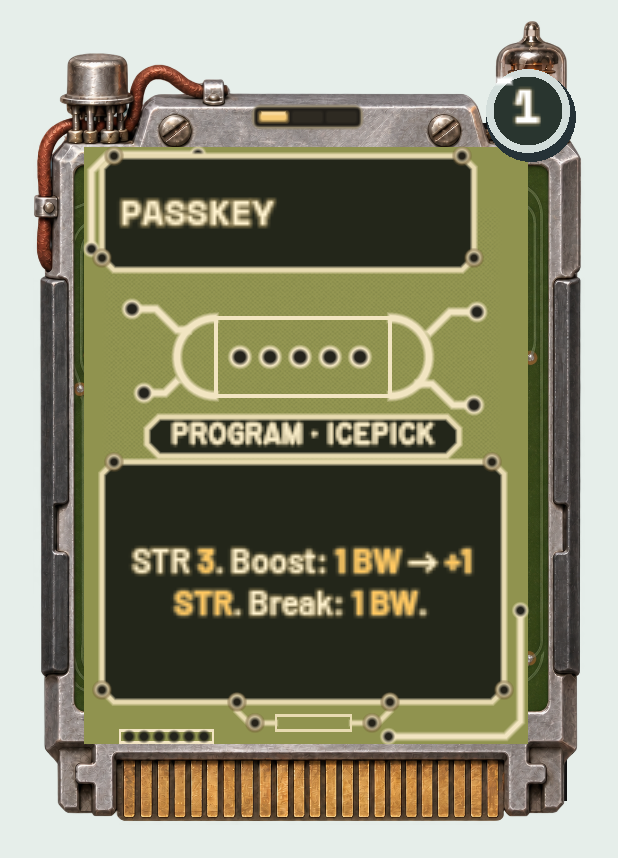
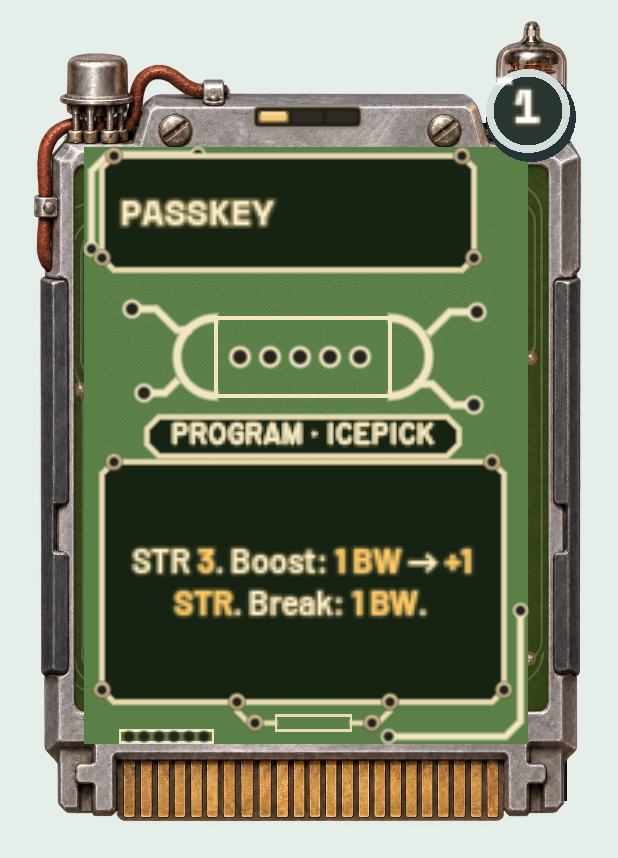
CARDS-002: deeper green PROGRAM; starters and PROTOCOL lamp settled (review branch only)
Designer direction: starters have no rarity; deeper green for PROGRAM;
PROTOCOL lamp on the relay rail works. PROGRAM laminate #5A8048, mask
#172312 (hue 101, 58 from mustard). Preview 0 failures at 3x and 1x;
rules 361/0, ADP 17/0, SIGNAL/CARBON 671/0.

Claude-Session: https://claude.ai/code/session_019hKEHwHgBfGqbFMUM3xZXY

Changed region(s): [[0.123, 0.1515, 0.8608, 0.8788]]

diff --git a/docs/visual/fixtures/cards-002/README.md b/docs/visual/fixtures/cards-002/README.md
@@ -4,7 +4,7 @@
 
 **Status:** Design review, 2026-11-19. PROPOSED except where a line says designer direction.
 
-![All four card types with the glow treatment, plus rarities, the longest rules text and cached cards](iterations/PANOPTICON_PCB_Glow_Four_Types.jpg)
+![All four card types with the glow treatment and the deeper green PROGRAM, plus rarities, the longest rules text and cached cards](iterations/PANOPTICON_PCB_Glow_Four_Types_Deep_Green.jpg)
 
 ## Current review version: four-type glow treatment
 
@@ -13,11 +13,11 @@
 | Type | Board | Dark mask behind text | Example |
 |---|---|---|---|
 | SCRIPT | Mustard `#AE924D` (new) | `#2E2712` | [DEEP PROBE](captures/SCRIPT_DEEP_PROBE.png) |
-| PROGRAM | Olive `#90934F` | `#23261A` | [PASSKEY](captures/PROGRAM_PASSKEY.png) |
+| PROGRAM | Deeper green `#5A8048` (designer direction; replaces olive `#90934F`) | `#172312` | [PASSKEY](captures/PROGRAM_PASSKEY.png) |
 | PROTOCOL | Blue-green `#60938A` | `#14272A` | [TOOLBELT](captures/PROTOCOL_TOOLBELT.png) |
 | BLOATWARE | Corporate oxide-red face and Whirlwind art (unchanged) | `#2A1411` | [TRACER](captures/BLOATWARE_TRACER.png) |
 
-**Open palette question:** olive is 20° of hue from mustard, the closest pair in the set. Next to each other they read as different boards, but a deeper green PROGRAM would separate them more.
+**Deeper green PROGRAM (designer direction, 2026-11-19).** Olive was only 20° of hue from mustard. The deeper green `#5A8048` sits at hue 101°: 58° from mustard and 68° from blue-green. It is also darker than both, so the three Rustler boards differ in brightness as well as hue. Ivory is 14.8:1 on its mask.
 
 **Treatment, every type**
 - **Dark solder-mask panels** sit behind the title, the type plate and the rules. Each mask is a deep tint of its own board colour. No text sits on the bare board.
@@ -25,7 +25,7 @@
 - **Rustler type faces:** Chrome Deco bold for titles, Routed Gothic for the type plate, Barlow SemiBold and Bold for the rules.
 - **BLOATWARE** keeps the HALCYON corporate fonts for its facade. Its footer line ("We just want to stay in touch.") sits in dimmer ivory at the bottom of its rules panel.
 - **Layout:** each panel is placed from the type's own board area. The rules panels are 84 px tall for SCRIPT, 80 for PROGRAM, 79 for PROTOCOL and 84 for BLOATWARE, with an 11 px ceiling and a 9 px floor. All 444 card texts (every card, AMP 0–3) fit their own type's panel.
-- **Rarity:** a recessed lamp in each Rustler shell's top exterior, with 1, 2 or 3 lit cells (amber, green or violet) for Common, Uncommon and Rare. Starter and BLOATWARE cards have no lamp, and no printed rarity remains on any card.
+- **Rarity:** a recessed lamp in each Rustler shell's top exterior, with 1, 2 or 3 lit cells (amber, green or violet) for Common, Uncommon and Rare. On PROTOCOL it sits on the relay's lower rail (designer accepted). Starters have no rarity (designer direction), BLOATWARE has no lamp, and no printed rarity remains on any card.
 - **Cached** (designer direction): never printed on the card. A cached card shows one solid icy-cyan `#7FE3F0` glow just inside its board edge, the same whether it is temporary or held until played. The glow draws beneath the BW cost and every text panel. The hover tooltip reads `CACHED`, or `CACHED (temporary)` for a timed cache, which the designer kept for now.
 
 | Also captured | |
@@ -38,10 +38,8 @@ The captures are at 3× hand size. [`captures/hand-size/`](captures/hand-size/) 
 
 **Interpretations to confirm**
 - The mask tints for each type.
-- The PROTOCOL lamp sits on the relay's lower rail, because that shell has no free strip on top.
 - The same circuit stencil appears on every Rustler type.
 - BLOATWARE keeps its corporate fonts.
-- Starters carry no rarity mark.
 
 ## Design sequence
 
@@ -60,6 +58,7 @@ The captures are at 3× hand size. [`captures/hand-size/`](captures/hand-size/) 
 13. [Cache edge glow: cyan board-edge ring, solid or dashed, with the padlock](iterations/PANOPTICON_Mustard_PCB_05_Cache_Edge_Glow.jpg)
 14. [Single cache state: one solid cyan glow, no padlock](iterations/PANOPTICON_Mustard_PCB_05_Cache_Single_Glow.jpg)
 15. [All four card types with the glow treatment, mustard on SCRIPT](iterations/PANOPTICON_PCB_Glow_Four_Types.jpg)
+16. [Deeper green PROGRAM](iterations/PANOPTICON_PCB_Glow_Four_Types_Deep_Green.jpg)
 
 ## Reproduce the latest preview
 

diff --git a/docs/REDLINE_DEVELOPMENT_LOG.md b/docs/REDLINE_DEVELOPMENT_LOG.md
@@ -4,14 +4,6 @@
 
 **LOG-001 (2026-11-16):** entries from 2026-11-08 to 2026-11-14 are in `REDLINE_DEVELOPMENT_LOG_ARCHIVE.md`, unchanged. Keep this file under about 60 KB (HANDOFF, "How we work" 6).
 
-## 2026-11-17 — MAIN-001: HANDOFF points to main (Claude)
-
-**Designer instruction:** fix the contradiction between `HANDOFF.md` and the shared working agreement. Rule 1 now says to work on `main` under `AGENTS.md` / `CLAUDE.md` (the former working branch was merged at a523502); rule 2 and the session-start step say `main`. Added a MAIN-001 row to *Done*. **Found, not changed:** `.github/workflows/godot-validation.yml` only runs the Windows export on pushes to `codex/halcyon-playtest-stabilization` or `codex/zeroed-tumble-2026-11-16`, so pushes to `main` never export. CI belongs to Codex; raised with the designer. **Code changes:** none.
-
-## 2026-11-17 — MAIN-001: Windows export runs on main (Claude)
-
-**Designer instruction:** make the Windows export run from `main`. In `.github/workflows/godot-validation.yml`, the three Windows steps (install template, export, upload) now run on pushes to `main` instead of `codex/halcyon-playtest-stabilization` / `codex/zeroed-tumble-2026-11-16`. Validation, rules and screenshot steps are unchanged; the workflow still triggers only on changes under `godot/` or to the workflow file. HANDOFF's deferred Windows line updated to match.
-
 ## 2026-11-17 — RUSTLER-LOOK-001: two Rustler styles kept on purpose (Claude)
 
 **Designer decision:** "B Each corp will have a different look. The HUD will probably change in the near future, but I want to keep it this way for now." The CARDS-001 hardware cards and the zine HUD/tags/END TURN/NUL/REM notes stay as they are; this is recorded as a deliberate exception to Visual Language Rule 1. Added RUSTLER-LOOK-001 to the master design doc and an amendment note under Rule 1 in `REDLINE_VISUAL_LANGUAGE.md`. **Code changes:** none.
@@ -437,3 +429,17 @@ LOG-001 moved the oldest dated entry to the archive unchanged: 2026-11-17 — CA
 LOG-001 moved the oldest dated entry to the archive unchanged: 2026-11-17 — CARDS-001: distinct board surface textures (Codex).
 
 LOG-001 moved the oldest dated entry to the archive unchanged: 2026-11-17 — VISUAL-DECISIONS-2026-11-17: approved visual decisions recorded in the master design doc (Claude).
+
+## 2026-11-19 — CARDS-002 deeper green PROGRAM; starters and PROTOCOL lamp settled (Claude)
+
+**Designer direction:** "Yes starters have no rarity. Go with deeper green. Protocol fix works."
+
+**Changed (preview patch, `review/cards-002` only):** PROGRAM laminate changes from olive `#90934F` to `#5A8048`, with mask `#172312`. That is hue 101°, 58° from mustard and 68° from blue-green, and darker than both; ivory is 14.8:1 on the mask. Recorded that starters carry no rarity mark and that the PROTOCOL lamp stays on the relay rail.
+
+**Validation:** preview fixture 0 failures at 3× and 1×, with all 444 texts fitting at 9 px or larger; rules 361/0, ADP 17/0, SIGNAL/CARBON 671/0 with the patch applied.
+
+**Interpretations to confirm:** the exact green value `#5A8048`, chosen from four candidates.
+
+LOG-001 moved the oldest dated entry to the archive unchanged: 2026-11-17 — MAIN-001: HANDOFF points to main (Claude).
+
+LOG-001 moved the oldest dated entry to the archive unchanged: 2026-11-17 — MAIN-001: Windows export runs on main (Claude).

diff --git a/docs/HANDOFF.md b/docs/HANDOFF.md
@@ -123,7 +123,7 @@ Per-step results and interpretations: [HALCYON_PLAYTEST3_IMPLEMENTATION.md](HALC
 | ID | Question | Where it came from | Status |
 |---|---|---|---|
 | NAME-002 (PROPOSED) | **Rename VITAE to SPARK?** Designer: VITAE "seems so out of place in this setting"; SPARK "works", to be reviewed later "to see how much it fits before committing it". Why SPARK: the stat is not health but how much of *you* the machine can't have. Every consciousness has a First Signal; the spark is that signal in you, and what the ’Pelago harvests for the synchronization (SIGNAL-001, ARCH-001). Hits dim it; at 0 your spark is taken. Period-true (radio spark gap). Samples: *SPARK 12 / 30*, *PULP 5 · SPARK −5*, NUL/REM "keep your spark low and your head lower." Considered and set aside: NERVE, TICKER, GRIT, PULSE (too close to PULP); runners-up STATIC, SPINE, INK. Optional extra: corporations name the same number in flavour copy only (HALCYON "Comfort Level", IRONWATCH "Wellness Index", LUCIDA "Restfulness"). Scope if approved: about 510 mentions in 21 docs, including LOCKED master entries (Vitae distinction, HUB-002 PATCH UP), and about 80 in code/data; Claude Code renames on screen with a guard test that VITAE never appears; no rule changes. | Designer, 2026-11-18 | WAITING (review later) |
-| CARDS-002 PCB glow cartridges | Review-only on `review/cards-002`. Latest: the glow treatment on all four card types, with mustard on SCRIPT (replacing its gold/brown), olive PROGRAM, blue-green PROTOCOL and corporate oxide-red BLOATWARE; dark mask panels per type; ivory text with amber numbers; 1/2/3 rarity lamps; a single cyan cache glow. **Interpretations to confirm:** mask tints, olive vs mustard closeness, PROTOCOL lamp on the relay rail, the same stencil on every Rustler type, corporate fonts kept, no rarity mark on starters. | [Review archive](visual/fixtures/cards-002/README.md) | **WAITING** for designer review; PROPOSED |
+| CARDS-002 PCB glow cartridges | Review-only on `review/cards-002`. Latest: the glow treatment on all four card types, with mustard SCRIPT, deeper green `#5A8048` PROGRAM (designer), blue-green PROTOCOL and corporate oxide-red BLOATWARE; dark mask panels per type; ivory text with amber numbers; 1/2/3 rarity lamps (none on starters, designer; PROTOCOL lamp on the relay rail, designer); a single cyan cache glow. **Interpretations to confirm:** mask tints, the same stencil on every Rustler type, corporate fonts kept on BLOATWARE. | [Review archive](visual/fixtures/cards-002/README.md) | **WAITING** for designer review; PROPOSED |
 | ARCH-NAMES-001 names | The nine island names are working copy: the designer will check them against real care homes later. | ARCH §4.0 | WAITING |
 
 ---

diff --git a/docs/REDLINE_MASTER_DESIGN.md b/docs/REDLINE_MASTER_DESIGN.md
@@ -106,6 +106,8 @@ Shared silkscreen `#F2E5C2` and contact holes `#24231C` stay outside names, illu
 
 **CARDS-002 four-type glow study (2026-11-19, review branch only, PROPOSED).** *Designer request:* preview the glow treatment on all four card types, with mustard replacing the colour that doesn't suit the rest or is too similar to another, Claude's choice. *Study:* mustard `#AE924D` replaces SCRIPT's gold/brown (hue 40°, nearly identical to mustard's 43°). PROGRAM stays olive and PROTOCOL blue-green. BLOATWARE keeps its oxide-red corporate face, art and fonts. Every type gets dark mask panels tinted from its own board (`#2E2712`, `#23261A`, `#14272A`, `#2A1411`), glowing ivory text and amber bold numbers. Each type has its own panel layout, all 444 card texts fit at 9 px or larger, and the cyan cache glow follows each type's edge. *Open:* olive sits 20° of hue from mustard, the closest pair.
 
+**CARDS-002 four-type decisions (2026-11-19, review branch only; designer direction).** Designer: "Yes starters have no rarity. Go with deeper green. Protocol fix works." Starter cards carry no rarity mark. PROGRAM's board changes from olive to deeper green `#5A8048` with mask `#172312` (hue 101°, 58° from mustard). PROTOCOL's rarity lamp stays on the relay's lower rail.
+
 **VISUAL-APPROVALS-002 — Prototype art and working values approved (APPROVED, 2026-11-17).** The designer approved every item below, which had been waiting for review. Designer: "Okay, all those changes that you listed are all approved." Numbers stay tunable presentation values; approval means build from them, not that they can never change. Sources: the 2026-11-17 VIS-001, CHROME-001 and CARDS-001 entries in `REDLINE_DEVELOPMENT_LOG.md`.
 
 - **CHROME-001 (HALCYON encounter), commits 15ae99e–4c2135e:** the generated calm and hostile atrium art and the CAPTCHA/AUTO-RENEW appliance shells; six shared collage illustrations assigned by card role (no per-card art yet); a 20% reveal of the hostile atrium during Cracking; pearl-enamel ICE plaques (pearl `#EDF4F0`, slate `#20343B`, teal `#165B55`) that stay clean in Mask off; the layered silver rim, small Deco fan and placeholder HALCYON wordmark on mascots; mascot carriers at 82% with two ICE and 70% with three; a 2.5-second break confirmation in a header at the top of the screen.

diff --git a/docs/REDLINE_DEVELOPMENT_LOG_ARCHIVE.md b/docs/REDLINE_DEVELOPMENT_LOG_ARCHIVE.md
@@ -1933,3 +1933,11 @@ GENERALIST also has two stalls, counted separately from deaths. Mean end decks G
 ## 2026-11-17 — VISUAL-DECISIONS-2026-11-17: approved visual decisions recorded in the master design doc (Claude)
 
 **Designer instruction:** record the approved visual decisions from VIS-001, CHROME-001 and CARDS-001 in `REDLINE_MASTER_DESIGN.md`, leaving out everything still waiting for review. Added the VISUAL-DECISIONS-2026-11-17 table after the Raygun Gothic section: The Friendly Lie, Atomic Salvage deprecated, 6-card draw, Chrome Deco encounter, no black ICE rule panels, type-specific cartridges, A/C/D board colours, no white card text backgrounds, oxide-red Whirlwind Bloatware, glowing amber numbers. Each row quotes the designer and cites its commit. Final art, working values and Interpretations to confirm stay in HANDOFF *Waiting on the designer*. LOG-001: the oldest whole entry (DSY-001/002/003/006, 2026-11-15) moved unchanged to the archive. **Code changes:** none.
+
+## 2026-11-17 — MAIN-001: HANDOFF points to main (Claude)
+
+**Designer instruction:** fix the contradiction between `HANDOFF.md` and the shared working agreement. Rule 1 now says to work on `main` under `AGENTS.md` / `CLAUDE.md` (the former working branch was merged at a523502); rule 2 and the session-start step say `main`. Added a MAIN-001 row to *Done*. **Found, not changed:** `.github/workflows/godot-validation.yml` only runs the Windows export on pushes to `codex/halcyon-playtest-stabilization` or `codex/zeroed-tumble-2026-11-16`, so pushes to `main` never export. CI belongs to Codex; raised with the designer. **Code changes:** none.
+
+## 2026-11-17 — MAIN-001: Windows export runs on main (Claude)
+
+**Designer instruction:** make the Windows export run from `main`. In `.github/workflows/godot-validation.yml`, the three Windows steps (install template, export, upload) now run on pushes to `main` instead of `codex/halcyon-playtest-stabilization` / `codex/zeroed-tumble-2026-11-16`. Validation, rules and screenshot steps are unchanged; the workflow still triggers only on changes under `godot/` or to the workflow file. HANDOFF's deferred Windows line updated to match.
